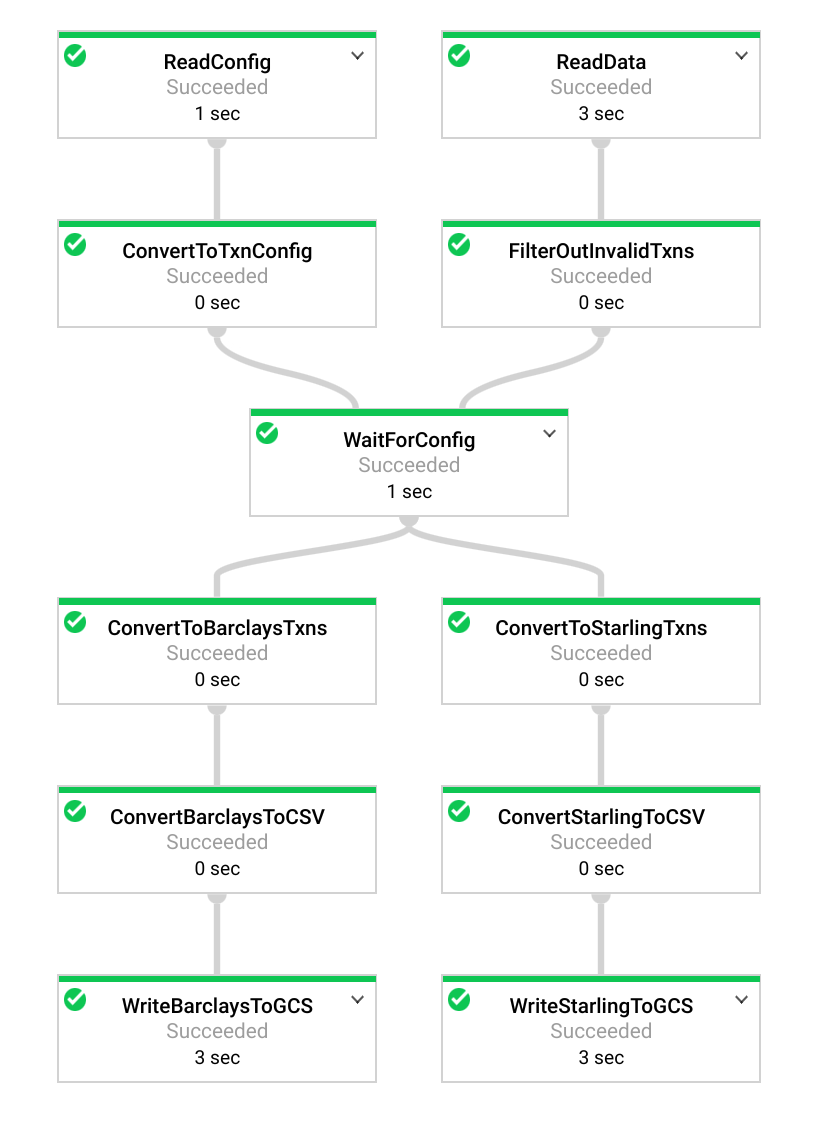
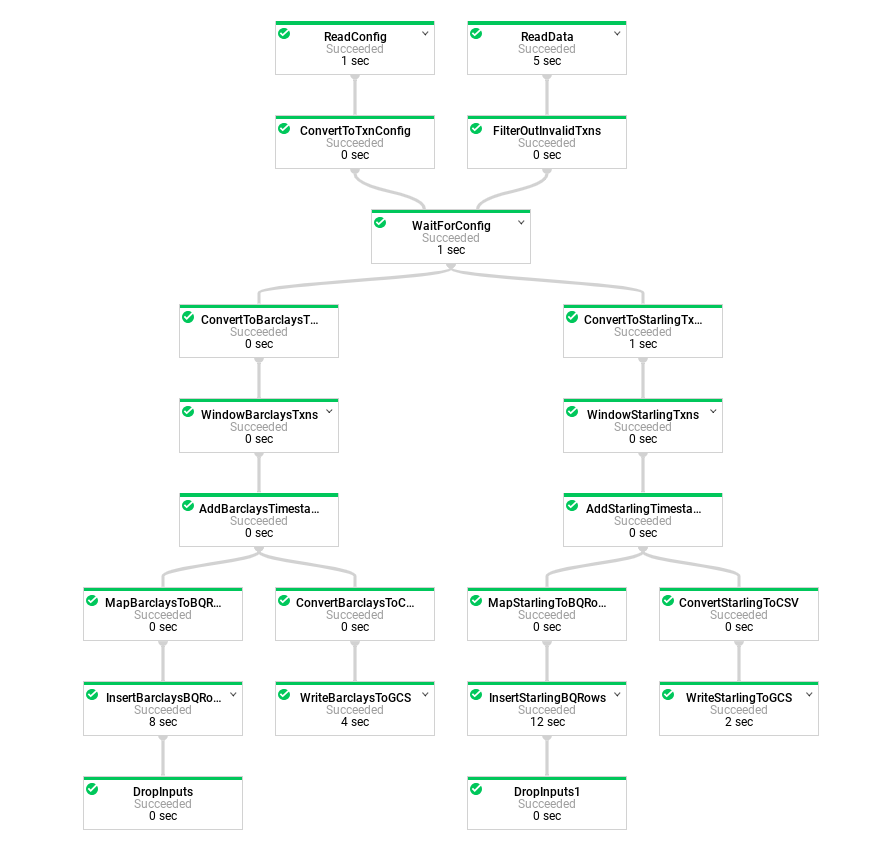
Updated Documentation and comments

diff --git a/README.md b/README.md
@@ -1,14 +1,29 @@
 # AccountsPipeline
 
-This is a pipeline for processing data (in batch for now) using Apache Beam and sending that data to BigQuery, it can use the directrunner or Dataflow. In due course this will be amended to include streaming, windowing and other cool stuff, like templating. The aim of the program is to read banking csv transaction data (from different banks i.e. different formats) and look at characteristics such as description to try and infer a category. It uses a mapping file that maps a partial phrase to category. Once the data is in BigQuery, it can be analysed using DataStudio, looker etc.
+This is a sample pipeline (to be used for education and inspiration purposes only) for processing financial data using Apache Beam. In this sample, personal baking transacitons are processed so they can be inserted into BigQuery. The transaciton data is filtered to removed bad data, enhanced using primitive deduction work to infer the category or type of spending (e.g. groceries vs clothe shopping etc), and the data is windowed on a day basis. 
 
-projSetup.sh creates the needed service account, enables API's, creates the dataset in BigQuery.
+This project can be executed by using either runLocal.sh or runOnDataflow.sh.
+
+This project uses parameters such as source and destination bucket locaitons, BigQuery table names etc, which are all defined in a config file (vars.txt).
+
+This project has a script called projSetup.sh which can be used to enable the required GCP APi's to create the required service account, and to create the BigQuery dataset/table. Similarly there is a script alled cleanup.sh which removes the objects created for when a fresh start is needed.
+
+TO DO: Think about dataflow templates, amend from batch to streaming as well
 
 runLocal.sh or runOnDataFlow.sh are the main entry points. The shell/code does the following:
 
 0) Delete previous output data from Google Cloud Storage (GCS)
-1) Copy all input data (banking transactions) from separate input gcs folders into a single folder
-2) Read an the category mapping file into memory
-3) Map and process the raw transaction data into categorised transactions, write them to BigQuery and then as csv's to an out GCS folder.
+1) Copy input data (banking transactions) from their separate input gcs folders (this assumes data is taken from Barclays Bank and Starling Bank), and places the data into a single GCS folder
+2) Load the config which is used for the primitve category/type decision making
+3) Execute the pipeline
+
+The Beam pipeline itself does the following:
+
+0) Load config (and waits till this is complete)
+1) Reads all the Banking Transactions and filters out header rows or rows that are empty or missing key fields
+2) Converts the data from Starling into a Starling format and likewise the BArclays Data into a Barclays format, both windowed by a day
+3) Writes the final transactions as CSV onto Google Cloud Storage and into BigQuery
+
+Because of the nature of Beam, there is no need in the code or the config to specify the number of threads, workers etc and/or the precise ordering of steps. The Beam runners will dynamically work this out, scaling up underlying compute resources as needed and re-balancing work between idle workers. In this way if there was a deluge of Barclays data then that part of the pipeline could be given more workers and indeed may be prioritised over starling, the runner does this for me automatically. Also, Beam automatically handles the parrellisation for me to the constraints of the data and compute as needed.
 
 ![Graph](/docs/dflow.png)
